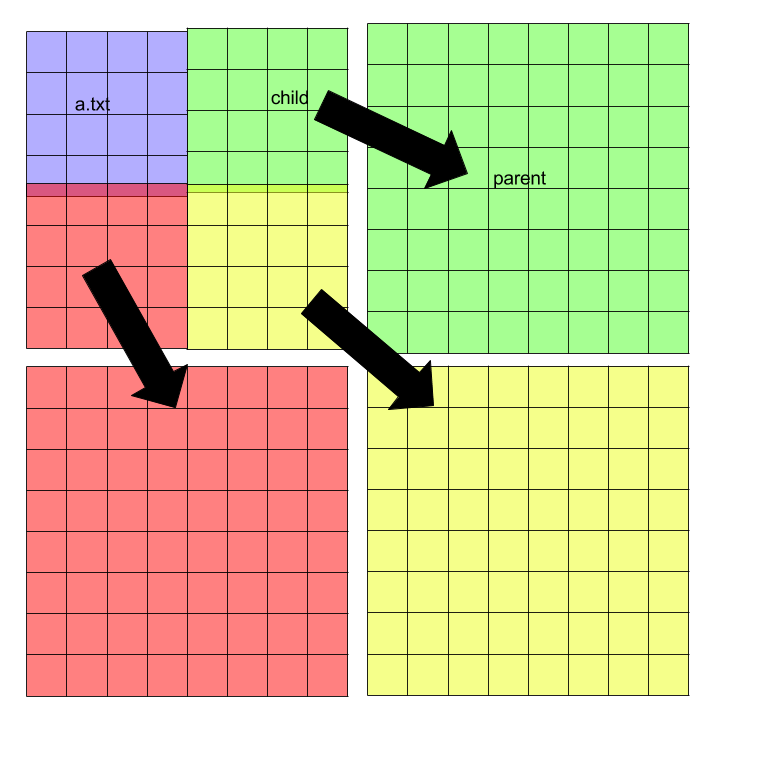
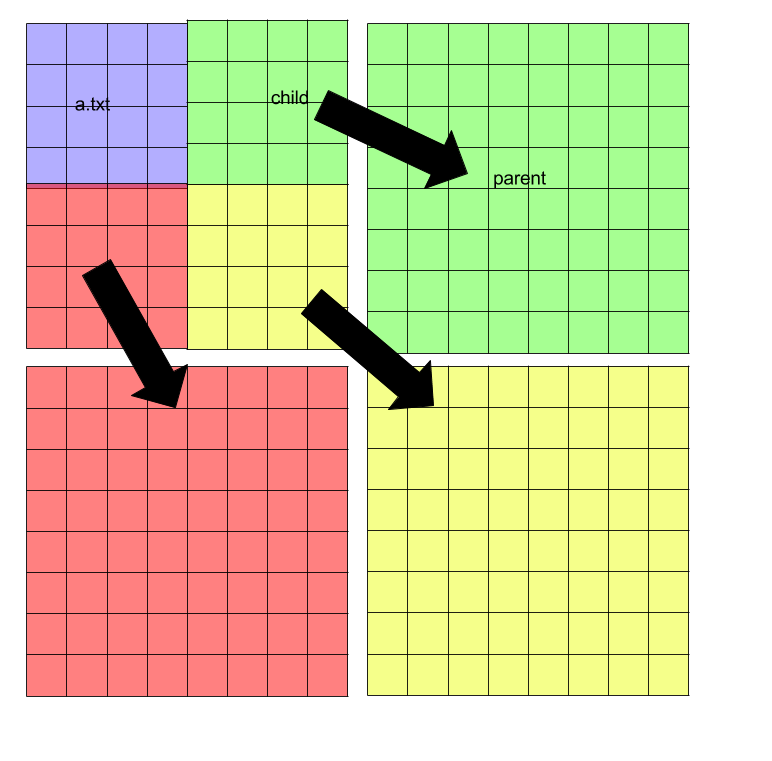
backup

Changed region(s): [[0.0311, 0.0, 0.4663, 0.0604], [0.0311, 0.2418, 0.4663, 0.272]]

diff --git a/README.md b/README.md
@@ -209,7 +209,7 @@ A 2 level wavelet decomposition may look something like this:
 
 ![image](sample_images/wavelet.png)
 
-Mappings between blocks within a child level and blocks within a parent level are constructed in a similar way to what was done in the fractalMapping section. However, this time we only compute the scaling factor (instead of simple linear regression, we find the line of best fit that crosses the origin). When reconstructing the parent blocks only given the smallest child blocks (top left), we recreate the parent sub blocks by iterating a single time by multiplying child blocks by scaling factor and mapping those onto parent blocks (unlike in fractal mapping where the decompression requires about 20 iterations).
+Mappings between blocks within a child level and blocks within a parent level are constructed in a similar way to what was done in the fractalMapping section. However, this time we only compute the scaling factor (instead of simple linear regression, we find the line of best fit that crosses the origin). The blocks in the smaller child level get expanded to match the block size in the parent level (in our diagram child level has 1 by 1 block size and parent has 2 by 2 block size).  When reconstructing the parent blocks only given the smallest child blocks (top left), we recreate the parent sub blocks by iterating a single time by multiplying child blocks by scaling factor and mapping those onto parent blocks (unlike in fractal mapping where the decompression requires about 20 iterations).
 
 Here is an example of lenna compressed using the wavelet approach and then decompressed. The wavelet decompression consisted of 4 levels where the bottom child was split into 1 by 1 pixel blocks. (Doing this caused a very slow runtime):
 
